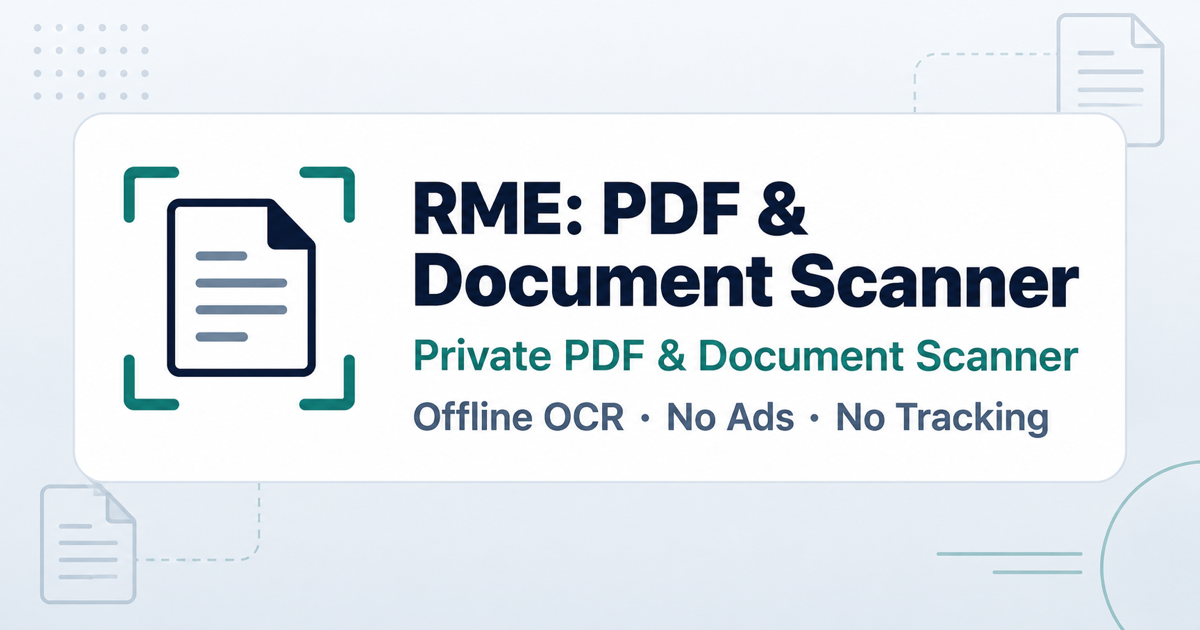
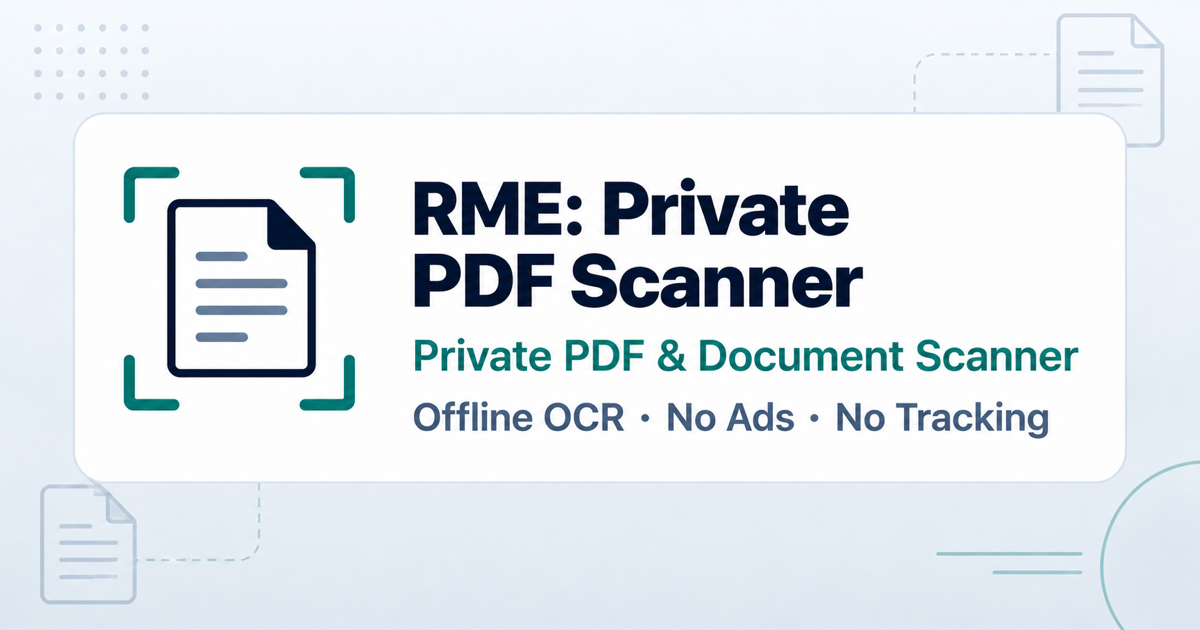
Complete RME naming alignment in social and install metadata

diff --git a/rme-pdf-scanner/index.html b/rme-pdf-scanner/index.html
@@ -6,7 +6,7 @@
   <link rel="stylesheet" href="/styles.css?v=20261020-products-menu">
   <title>RME: Private PDF Scanner for Android | SynapseWorks</title>
   <link rel="canonical" href="https://synapseworks.org/rme-pdf-scanner/">
-  <meta name="description" content="Private PDF and document scanner for Android with on-device OCR, searchable PDFs, Share-Safe redaction and a local library. No ads or RME account.">
+  <meta name="description" content="RME: Private PDF Scanner for Android with on-device OCR, searchable PDFs, Share-Safe redaction and a local library. No ads or RME account.">
   <meta property="og:site_name" content="SynapseWorks">
   <meta property="og:title" content="RME: Private PDF Scanner for Android">
   <meta property="og:description" content="Private, local-first Android scanning with on-device OCR, Share-Safe redaction, searchable PDFs, migration and portable backup.">
@@ -216,7 +216,7 @@
       <div class="cta-row">
         <a class="cta" href="https://play.google.com/store/apps/details?id=org.synapseworks.pageharbor&amp;utm_source=synapseworks&amp;utm_medium=website&amp;utm_campaign=rme_product" target="_blank" rel="noopener noreferrer">Get RME on Google Play</a>
         <a class="cta secondary" href="https://github.com/lucianRME/rme-pdf-scanner/releases/latest" target="_blank" rel="noopener noreferrer">View the latest GitHub release</a>
-        <a class="cta secondary" href="https://apps.obtainium.imranr.dev/redirect?r=obtainium://app/%7B%22id%22%3A%22org.synapseworks.pageharbor%22%2C%22url%22%3A%22https%3A%2F%2Fgithub.com%2FlucianRME%2Frme-pdf-scanner%22%2C%22author%22%3A%22SynapseWorks%22%2C%22name%22%3A%22RME%3A%20PDF%20%26%20Document%20Scanner%22%2C%22additionalSettings%22%3A%22%7B%5C%22includePrereleases%5C%22%3Afalse%7D%22%7D" target="_blank" rel="noopener noreferrer">Install with Obtainium</a>
+        <a class="cta secondary" href="https://apps.obtainium.imranr.dev/redirect?r=obtainium://app/%7B%22id%22%3A%22org.synapseworks.pageharbor%22%2C%22url%22%3A%22https%3A%2F%2Fgithub.com%2FlucianRME%2Frme-pdf-scanner%22%2C%22author%22%3A%22SynapseWorks%22%2C%22name%22%3A%22RME%3A%20Private%20PDF%20Scanner%22%2C%22additionalSettings%22%3A%22%7B%5C%22includePrereleases%5C%22%3Afalse%7D%22%7D" target="_blank" rel="noopener noreferrer">Install with Obtainium</a>
       </div>
       <p class="note" style="margin-top: 14px;">Obtainium follows RME's stable GitHub Releases and is an alternative to Google Play. Its button uses Obtainium's third-party hosted redirect, which includes analytics and advertising scripts. To avoid that redirect, add <code>https://github.com/lucianRME/rme-pdf-scanner</code> manually in Obtainium and keep prereleases disabled.</p>
       <p class="note" style="margin-top: 14px;">The GitHub APK and Google Play build use different signing certificates, so Android cannot install one channel over the other as an update. Before changing channels, create a portable RME backup and confirm that you can access it; removing the installed app also removes its app-private document library.</p>
